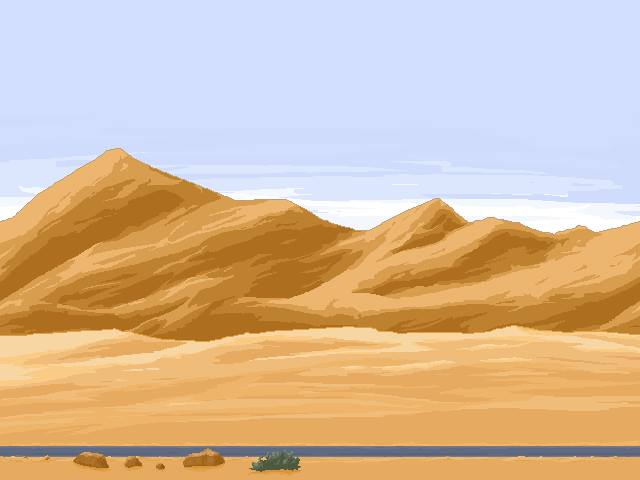
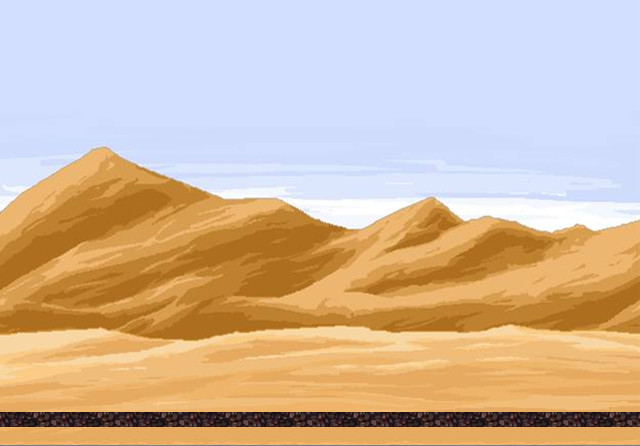
resolved background issues

diff --git a/src/main/java/upm/cmsc/starwars/states/GameState.java b/src/main/java/upm/cmsc/starwars/states/GameState.java
@@ -9,73 +9,82 @@ import org.newdawn.slick.SlickException;
 import org.newdawn.slick.state.BasicGameState;
 import org.newdawn.slick.state.StateBasedGame;
 
-import upm.cmsc.starwars.characters.LukeSkywalker;
+import upm.cmsc.starwars.objects.Background;
+import upm.cmsc.starwars.objects.LukeSkywalker;
+import static upm.cmsc.starwars.objects.Contstants.*;
 
 
 public class GameState extends BasicGameState{
 	
-	private final long ATTACK_DURATION = 170;
-	private final long JUMP_DURATION = 150;
-	private final float H_DISPLACEMENT = 0.2f;
-	private final float MIN_Y = 395;
+	private final float MIN_Y = 365;
 	private final float MAX_X = 200;
-	private final float GRAVITY = 9.8f;
-	private final float INITIAL_VELOCITY = 5;
 	
 	
 	private Animation sprite, rightMove, noMove,attackMove,jumpMove;
 	private boolean attacking,jumping;
-	private float bgX,hVelocity;
+	private float hVelocity;
 	private long timeStarted;
 	
+	private Background background;
 	private LukeSkywalker luke;
-	private Image background;
+	
+	
+	private Image tree;
+	private Image tumbleweed;
+	private float treeX = 10;
+	private float tumbleweedX = 0;
 	
 	@Override
 	public void init(GameContainer gc, StateBasedGame s) throws SlickException {
 		
 		luke = new LukeSkywalker();
-		
-		background = new Image(this.getClass().getResource("/background/dessert.jpg").getPath());
-		bgX = background.getWidth() * -1;
+		luke.setY(MIN_Y);
+		background = new Background("dessert.jpg");
 		
 		rightMove = luke.getRightAnimation();
 		noMove = luke.getNoAnimation();
 		attackMove = luke.getAttackAnimation();
 		jumpMove = luke.getJumpAnimation();
-		sprite = noMove;
+		sprite = noMove;	
 		
 		
-		luke.setY(MIN_Y);
+		tree = new Image(this.getClass().getResource("/elements/tree.png").getPath());
+		tumbleweed = new Image(this.getClass().getResource("/elements/tumbleweed.png").getPath());
 	}
 	
 	@Override
 	public void render(GameContainer gc, StateBasedGame s, Graphics g) throws SlickException {
-		float x = bgX;
-		while(x<0){
-			background.draw(x+background.getWidth(),0);
-			x+=background.getWidth();
+		background.draw(0);
+		float x = treeX;
+		while(x<background.getWidth()){
+			tree.draw(x, 200);
+			x+=500;
 		}
+		x = tumbleweedX;
+		while(x<background.getWidth()){
+			tumbleweed.draw(x,320);
+			x+=20;
+		}
+		
+		
 		sprite.draw(luke.getX(),luke.getY());
 	}
 	
 	@Override
-	public void update(GameContainer gc, StateBasedGame s, int delta) throws SlickException {
-		
-		if(gc.getInput().isKeyPressed(Input.KEY_ENTER)){
-			s.enterState(State.MENU);
-		}
+	public void update(GameContainer gc, StateBasedGame s, int delta) throws SlickException {	
 		if(gc.getInput().isKeyDown(Input.KEY_RIGHT) && !jumping){
+			sprite = rightMove;	
 			if(luke.getX()<MAX_X){
 				luke.addToX(delta*H_DISPLACEMENT);
+				if(luke.getX()>MAX_X){
+					luke.setX(MAX_X);
+				}
 			}
 			else{
-				bgX-=delta*H_DISPLACEMENT;
+				treeX -= delta*H_DISPLACEMENT;
+				tumbleweedX -= delta * 0.05f;
+//				background.addToX(-1*(delta*H_DISPLACEMENT));
 			}
-			if(luke.getX()>MAX_X){
-				luke.setX(MAX_X);
-			}
-			sprite = rightMove;	
 		}
 		else if(gc.getInput().isKeyPressed(Input.KEY_A) && !attacking){
 				sprite = attackMove;

diff --git a/src/main/java/upm/cmsc/starwars/objects/LukeSkywalker.java b/src/main/java/upm/cmsc/starwars/objects/LukeSkywalker.java
@@ -1,4 +1,4 @@
-package upm.cmsc.starwars.characters;
+package upm.cmsc.starwars.objects;
 
 import java.io.File;
 import java.io.IOException;
@@ -17,17 +17,19 @@ import org.newdawn.slick.SlickException;
 import static org.apache.commons.io.FilenameUtils.removeExtension;
 
 public class LukeSkywalker {
+	
 	private Map<String,Image> images;
 	private float x = 0;
 	private float y = 0;
+	private Animation currSprite,rightMove,noMove,attackMove,jumpMove;
 	
-	public LukeSkywalker(){
+	public LukeSkywalker() throws SlickException{
 		loadSprites();
 	}
 	
 	
-	private void loadSprites(){
-		try {
+	private void loadSprites() throws SlickException{
+		try{
 			String folderName = this.getClass().getResource("/sprites/luke").getPath();
 			List<File> rawFiles = Files.walk(Paths.get(folderName))
 					.filter(Files::isRegularFile)
@@ -41,11 +43,19 @@ public class LukeSkywalker {
 			this.images = images;
 		}  catch (IOException e) {
 			// TODO do something here
-		} catch (SlickException e) {
-			// TODO do something here
-		}
+		} 
 	}
-
+	
+//	private void loadAnimations(){
+//		Image[] imgSequence = {images.get("walk1"),images.get("walk2")};
+//		int[] duration = {100,100};
+//		rightMove =  new Animation(imgSequence.clone(),duration.clone(),false);
+//		
+//		imgSequence = new Image[]{images.get("stand")};
+//		duration = new int[]{200};
+//		noMove =  new Animation(imgSequence.clone(),duration.clone(),false);
+//	}
+//	
 	
 	public Animation getRightAnimation(){
 		Image[] imgSequence = {images.get("walk1"),images.get("walk2")};

diff --git a/src/main/java/upm/cmsc/starwars/Engine.java b/src/main/java/upm/cmsc/starwars/Engine.java
@@ -8,25 +8,10 @@ import org.newdawn.slick.state.StateBasedGame;
 import upm.cmsc.starwars.states.*;
 
 public class Engine extends StateBasedGame {
-	
-	public static boolean _APPLET;
 
 	public Engine(String title) {
 		super(title);
 	}
-
-	public static void main(String[] args) {
-		_APPLET = false;
-		try {
-			AppGameContainer game = new AppGameContainer(new Engine(Window.GAME_TITLE));
-			game.setDisplayMode(Window.WIDTH, Window.HEIGHT, Window.isFullScreen());
-			game.start();
-		} catch (SlickException e) {
-			e.printStackTrace();
-		}
-
-	}
-
 
 	@Override
 	public void initStatesList(GameContainer gc) throws SlickException {
@@ -38,7 +23,18 @@ public class Engine extends StateBasedGame {
 		gc.setVSync(true);
 		
 		this.addState(new GameState());
-		this.addState(new MenuState());
+//		this.addState(new MenuState());
 	}
 
+	public static void main(String[] args) {
+		try {
+			AppGameContainer game = new AppGameContainer(new Engine(Window.GAME_TITLE));
+			game.setDisplayMode(Window.WIDTH, Window.HEIGHT, Window.isFullScreen());
+			game.start();
+		} catch (SlickException e) {
+			e.printStackTrace();
+		}
+
+	}
+	
 }

diff --git a/src/main/java/upm/cmsc/starwars/objects/Background.java b/src/main/java/upm/cmsc/starwars/objects/Background.java
@@ -1,0 +1,33 @@
+package upm.cmsc.starwars.objects;
+
+import org.newdawn.slick.Image;
+import org.newdawn.slick.SlickException;
+
+public class Background {
+	
+	private Image image;
+	private float x;
+	
+	
+	public Background(String filename) throws SlickException{
+		image = new Image(this.getClass().getResource("/background/"+filename).getPath());
+		x = -1 * image.getWidth();
+	}
+
+	public void addToX(float number){
+		x+=number;
+	}
+	public void incrementX(){
+		x++;
+	}
+	public float getX(){
+		return x;
+	}
+	public void draw(float x){
+		image.draw(x,0);
+	}
+	public int getWidth(){
+		return image.getWidth();
+	}
+	
+}

diff --git a/src/main/java/upm/cmsc/starwars/Window.java b/src/main/java/upm/cmsc/starwars/Window.java
@@ -4,7 +4,8 @@ public class Window {
 
 	public static final String GAME_TITLE = "Star Wars";
 	public static final int WIDTH = 640;
-	public static final int HEIGHT = 480;
+	public static final int HEIGHT = 446;
+//	private static final boolean fullScreen = true;
 	private static final boolean fullScreen = false;
 	public static boolean isFullScreen() {
 		return fullScreen;

diff --git a/src/main/java/upm/cmsc/starwars/objects/Contstants.java b/src/main/java/upm/cmsc/starwars/objects/Contstants.java
@@ -1,0 +1,9 @@
+package upm.cmsc.starwars.objects;
+
+public class Contstants {
+	public static final long ATTACK_DURATION = 170;
+	public static final long JUMP_DURATION = 150;
+	public static final float H_DISPLACEMENT = 0.2f;
+	public static final float GRAVITY = 9.8f;
+	public static final float INITIAL_VELOCITY = 5;
+}
